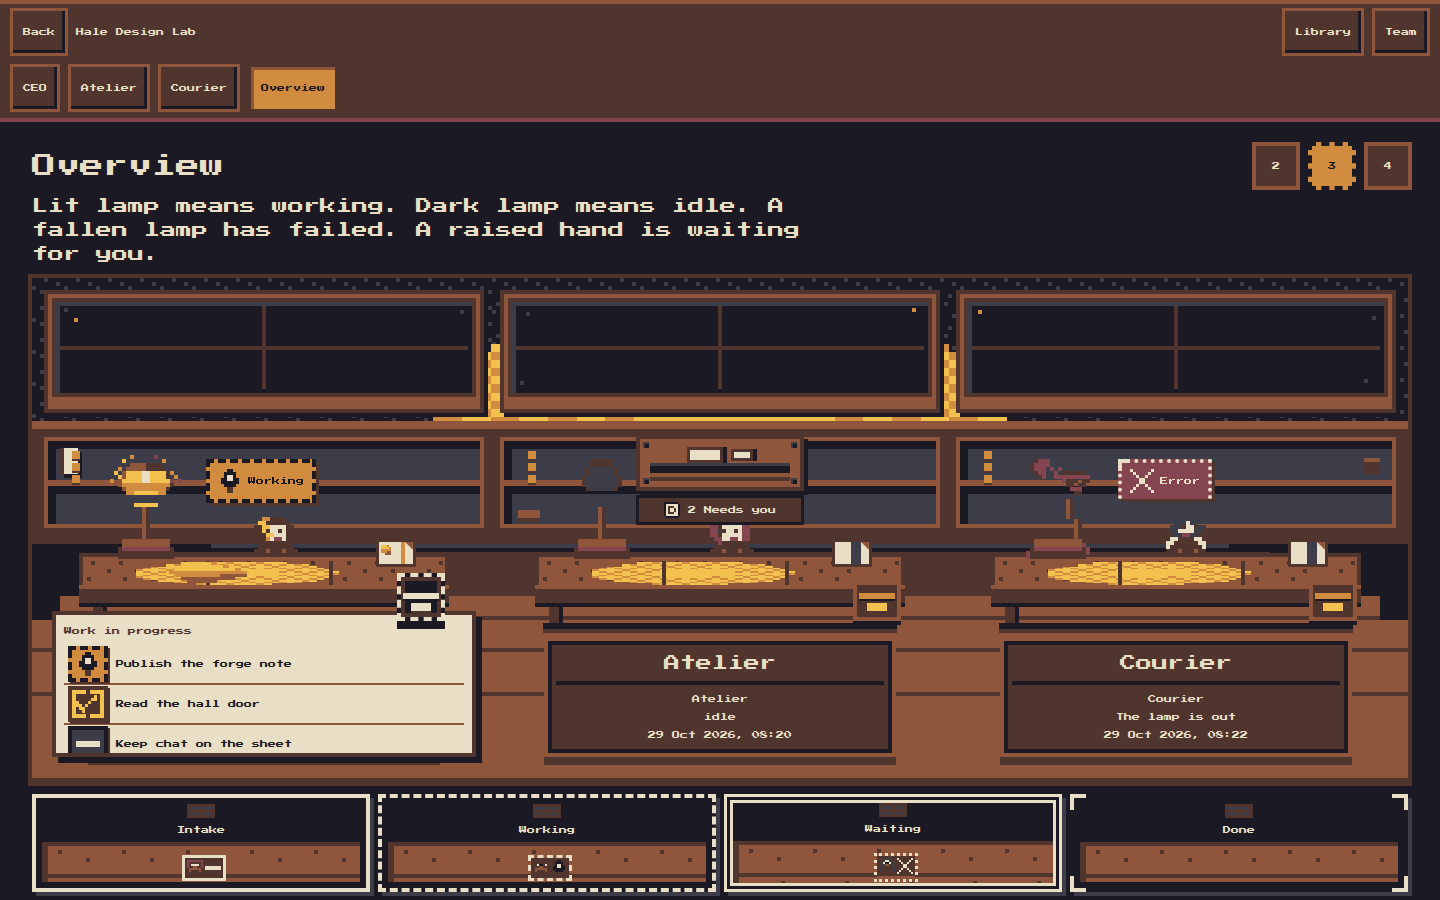
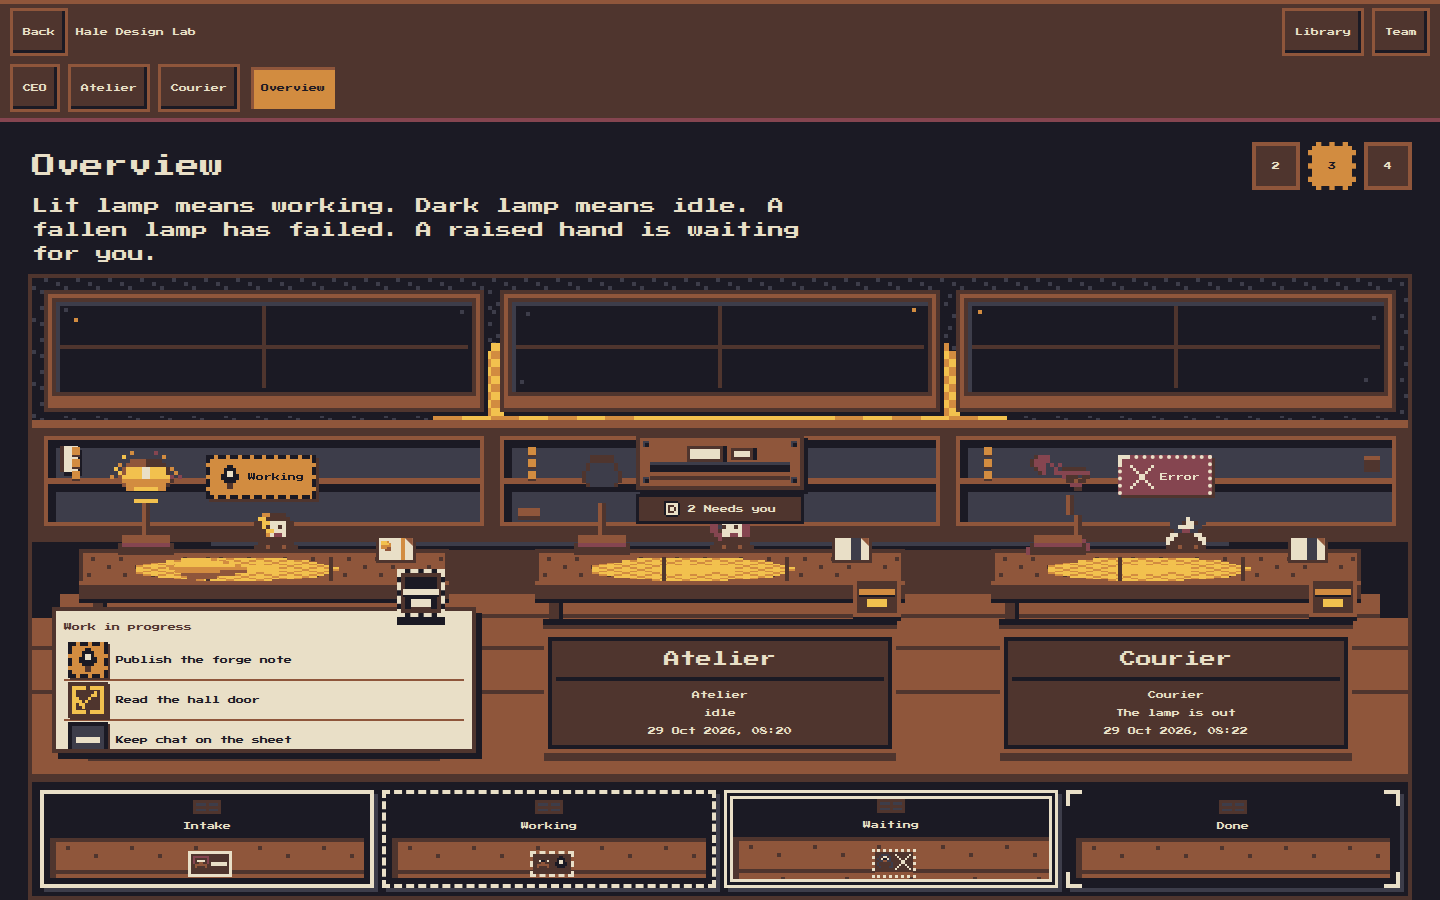
Keep the pipeline strip inside the overview room.
The band was still a sibling under the study, so the room stopped about 114px short of the viewport. It now sits on the near edge of the room, and the drawer stays in the desk composition.

Changed region(s): [[0.0, 0.4356, 1.0, 1.0]]

diff --git a/client/src/study/DeskGrid.tsx b/client/src/study/DeskGrid.tsx
@@ -200,6 +200,7 @@ export function DeskGrid({
         ref={roomRef}
         aria-hidden={covered ? true : undefined}
       >
+        <div className="desk-hall">
         <span className="agent-desk-wall" data-material="plaster" aria-hidden="true">
           <SpaceWash space="work" part="wall" />
         </span>
@@ -387,16 +388,17 @@ export function DeskGrid({
         </div>
         </div>
         <MailTray teamId={teamId} agents={agents} still={still} onOpen={onOpenMail ?? (() => {})} />
+        </div>
+        {showPipeline ? (
+          <PipelineRooms
+            ref={pipelineRef}
+            agents={agents}
+            still={still}
+            filter={pipeline}
+            onFilter={setPipeline}
+          />
+        ) : null}
       </div>
-      {showPipeline ? (
-        <PipelineRooms
-          ref={pipelineRef}
-          agents={agents}
-          still={still}
-          filter={pipeline}
-          onFilter={setPipeline}
-        />
-      ) : null}
       {canFocus && agents.length > 1 ? (
         <fieldset ref={tilesRef} className="tile-count" data-reach="local" aria-label="Desk tiles">
           {TILE_COUNTS.map((count) => (

diff --git a/client/src/index.css b/client/src/index.css
@@ -1306,9 +1306,19 @@ html:has(.room-portal-layer) body {
   flex: 1 1 auto;
   min-height: 0;
   overflow: hidden;
+  display: flex;
+  flex-direction: column;
   border: 4px solid var(--darkwood);
   background: var(--night);
   image-rendering: pixelated;
+}
+
+/* The painted hall keeps its own box. The pipeline band sits inside the room, on the near edge. */
+.desk-hall {
+  position: relative;
+  flex: 1 1 auto;
+  min-height: 0;
+  overflow: hidden;
 }
 
 .desk-floor-row {
@@ -6198,7 +6208,10 @@ html[data-recede="dim"] .mail-caption {
   display: grid;
   grid-template-columns: repeat(4, minmax(0, 1fr));
   gap: 8px;
-  margin: 0 4px 8px;
+  margin: 0;
+  padding: 8px;
+  background: var(--night);
+  border-top: 4px solid var(--darkwood);
   image-rendering: pixelated;
 }
 

diff --git a/client/src/study/pipelineRooms.test.tsx b/client/src/study/pipelineRooms.test.tsx
@@ -133,7 +133,9 @@ describe("pipeline rooms", () => {
     await localDb.open();
     const opened = renderFloor(true);
 
-    const rooms = document.querySelector(".pipeline-rooms");
+    const rooms = document.querySelector(".desk-room .pipeline-rooms");
+    expect(document.querySelector(".desk-room > .desk-hall .pipeline-rooms")).toBeNull();
+    expect(rooms?.parentElement).toBe(document.querySelector(".desk-room"));
     expect(rooms).toHaveAttribute("data-lighting", "ember");
     expect(rooms).toHaveAttribute("data-reach", "local");
     expect(rooms).toHaveAttribute("data-still", "true");
